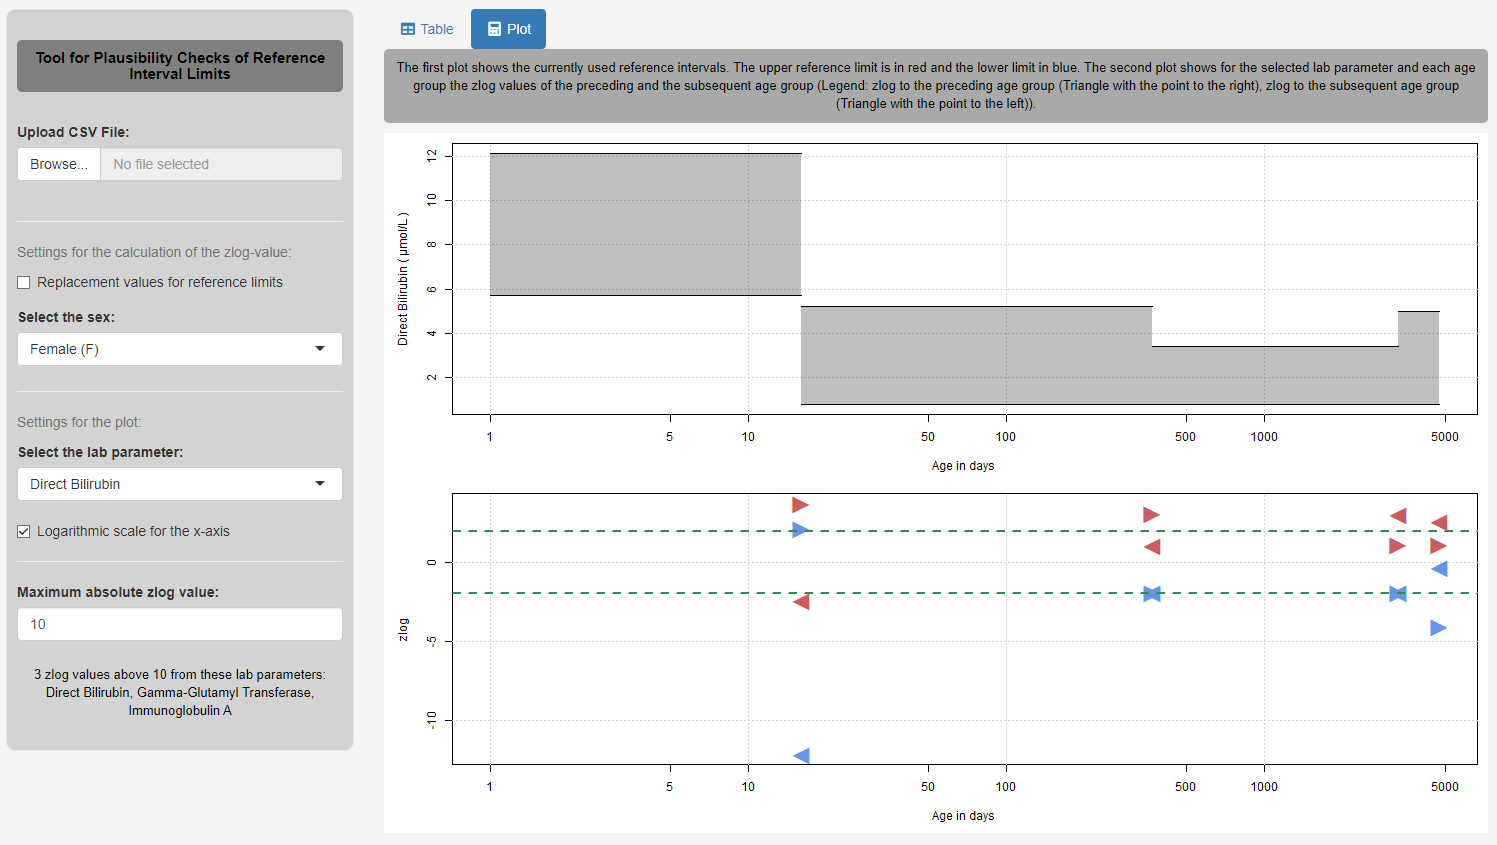
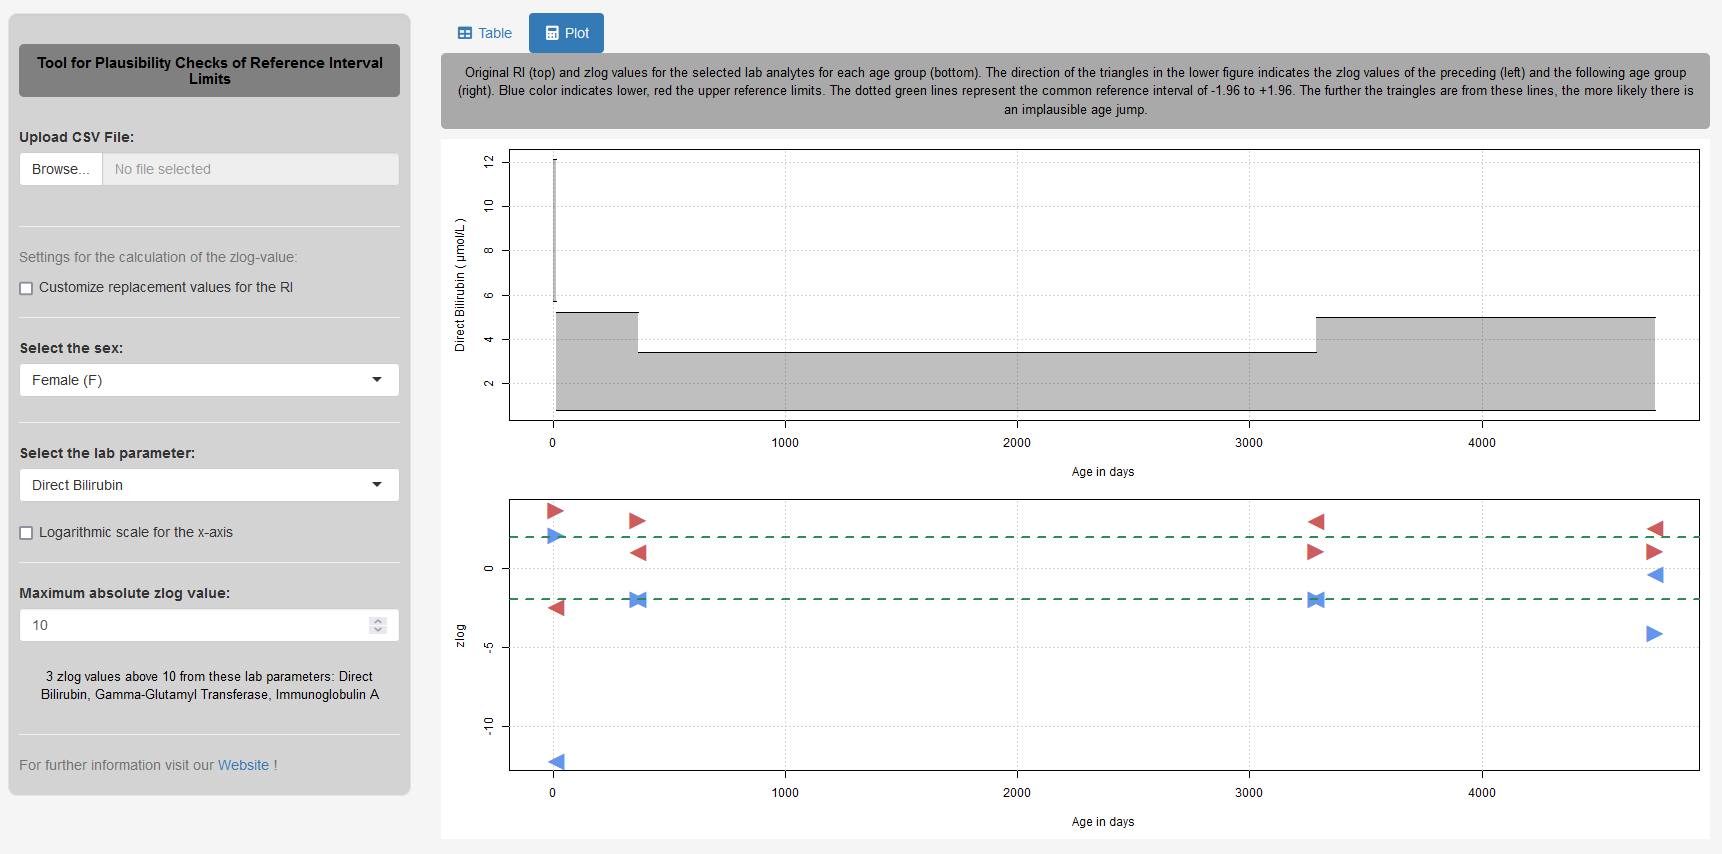
Update figures + guide.md

diff --git a/docs/guide.md b/docs/guide.md
@@ -17,19 +17,17 @@ For new data use the [CALIPER-Dataset](https://github.com/SandraKla/Zlog_AdRI/bl
 
 ### Settings
 
-<img src="setting.png" align="center" style="width:300px;"/>
-
 1)	Upload the CSV File with own reference intervals. 
 
-2)	Replacement values: If the lower reference limit is zero, it will be set to 0.001 and the upper reference limit to 100 or by own given reference limits.
+2)	Customize the replacement values for the RI: If the lower reference limit is zero, it will be set to 0.001 and the upper reference limit to 100 or by own given reference limits.
 
 <img src="shiny_replace.png" text-align="center" style="width:300px;"/>
 
 3)	Select the sex
 
-4)	Select the lab parameter
+4)	In Plot: Select the lab parameter
 
-5)	Select if the x-axis should be logarithmic
+5)	In Plot: Select if the x-axis should be logarithmic
 
 6)	Select the maximum zlog value for quick determination of very high zlog values (Example with the preloaded CALIPER-Dataset)
 
